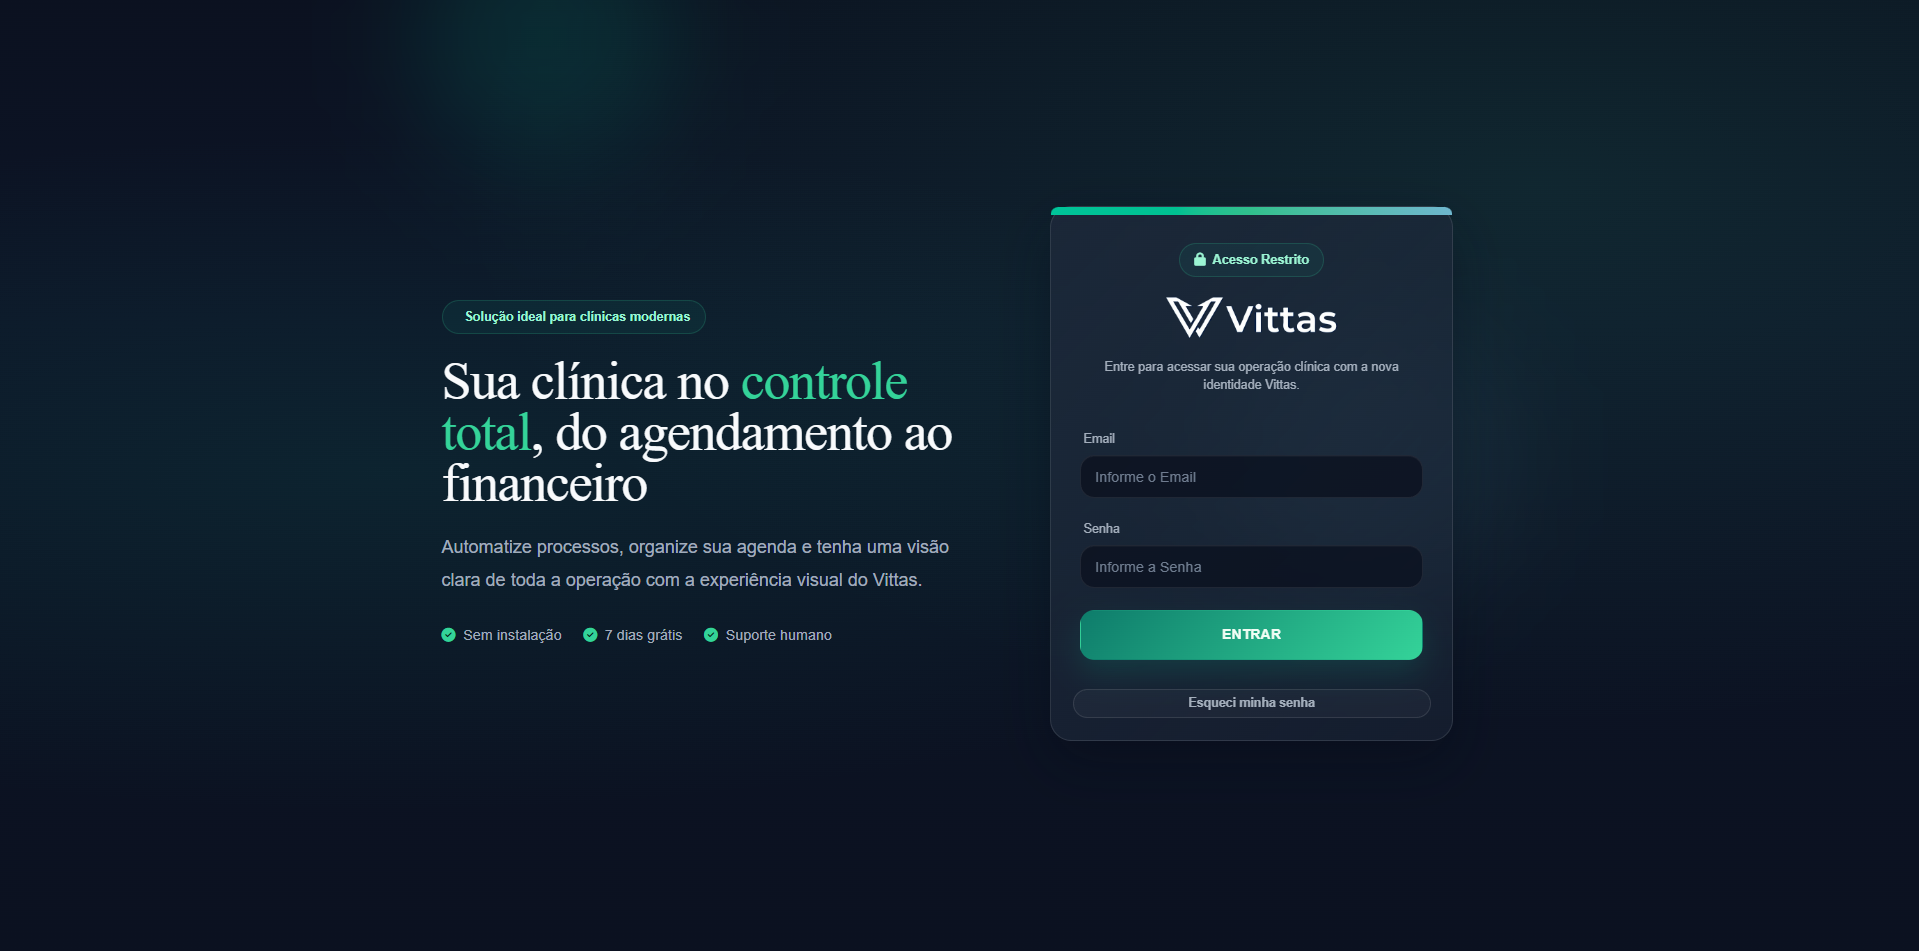
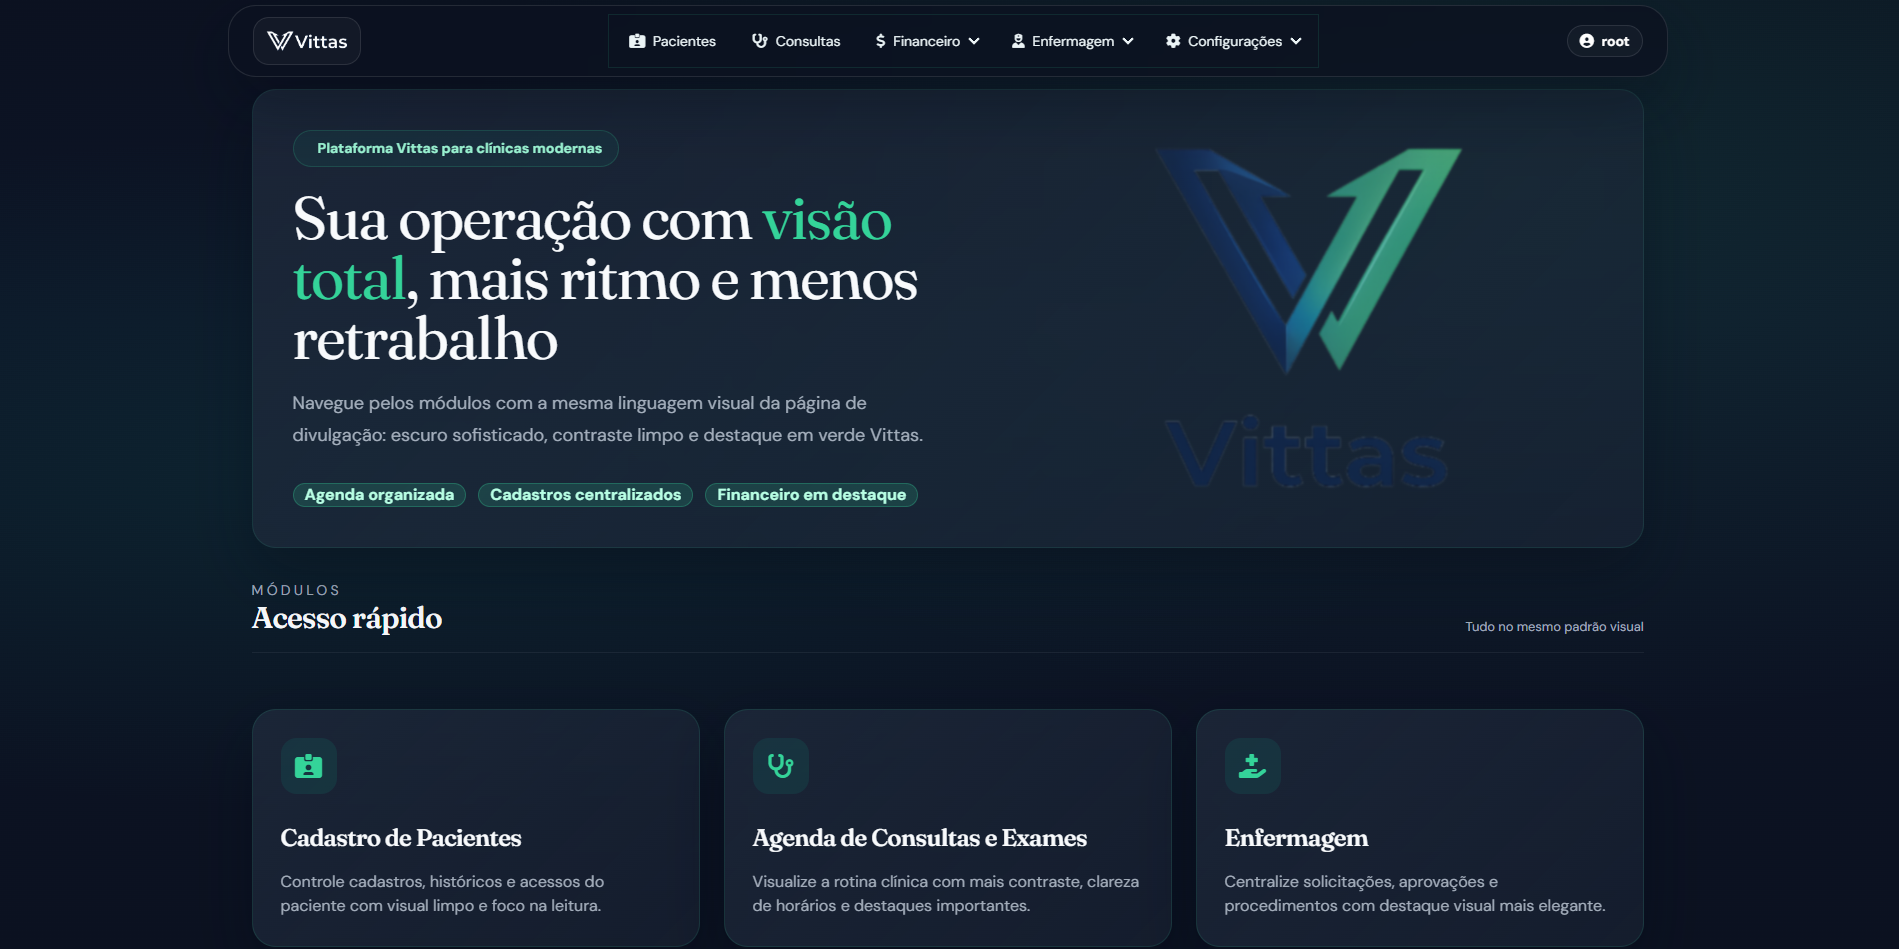
ajusteProjetos

diff --git a/index.html b/index.html
@@ -102,7 +102,7 @@
 
         <div class="project-grid">
           <article class="project-card featured project-card-primary">
-            <figure class="project-shot project-mockup" data-gallery="assents/vittas/vittas.png, assents/vittas/vittas2.png, assents/vittas/vittas3.png, assents/vittas/vittas4.png">
+            <figure class="project-shot project-mockup" data-gallery="assents/vittas/vittas.png, assents/vittas/vittas2.png, assents/vittas/vittas3.png, assents/vittas/vittas4.png, assents/vittas/vittas5.png">
               <div class="mockup-window">
                 <div class="mockup-bar" aria-hidden="true">
                   <span></span>
@@ -129,13 +129,13 @@
               <li>Dashboard visual para análise de dados</li>
             </ul>
             <div class="project-links">
-              <a target="_blank" rel="noreferrer" href="https://vittas.onrender.com/vendas">Abrir demo</a>
+              <a target="_blank" rel="noreferrer" href="https://vittas.onrender.com/financeiro/vendas">Abrir demo</a>
               <span class="muted-link">Repositório privado</span>
             </div>
           </article>
 
           <article class="project-card featured">
-            <figure class="project-shot project-mockup" data-gallery="assents/edunex/Edunex.png, assents/edunex/Edunex2.png, assents/edunex/Edunex3.png, assents/edunex/Edunex4.png">
+            <figure class="project-shot project-mockup" data-gallery="assents/edunex/Edunex.png, assents/edunex/Edunex2.png, assents/edunex/Edunex3.png, assents/edunex/Edunex4.png, assents/edunex/Edunex5.png, assents/edunex/Edunex6.png">
               <div class="mockup-window">
                 <div class="mockup-bar" aria-hidden="true">
                   <span></span>
@@ -195,8 +195,8 @@
               <li>Previsão de saldo com base em dados históricos</li>
             </ul>
             <div class="project-links">
-              <a target="_blank" rel="noreferrer" href="https://github.com/Yan10Albuquerque/Finance_App">Repositório</a>
               <a target="_blank" rel="noreferrer" href="https://finance-app-1xb0.onrender.com">Abrir demo</a>
+              <a target="_blank" rel="noreferrer" href="https://github.com/Yan10Albuquerque/Finance_App">Repositório</a>
             </div>
           </article>
         </div>